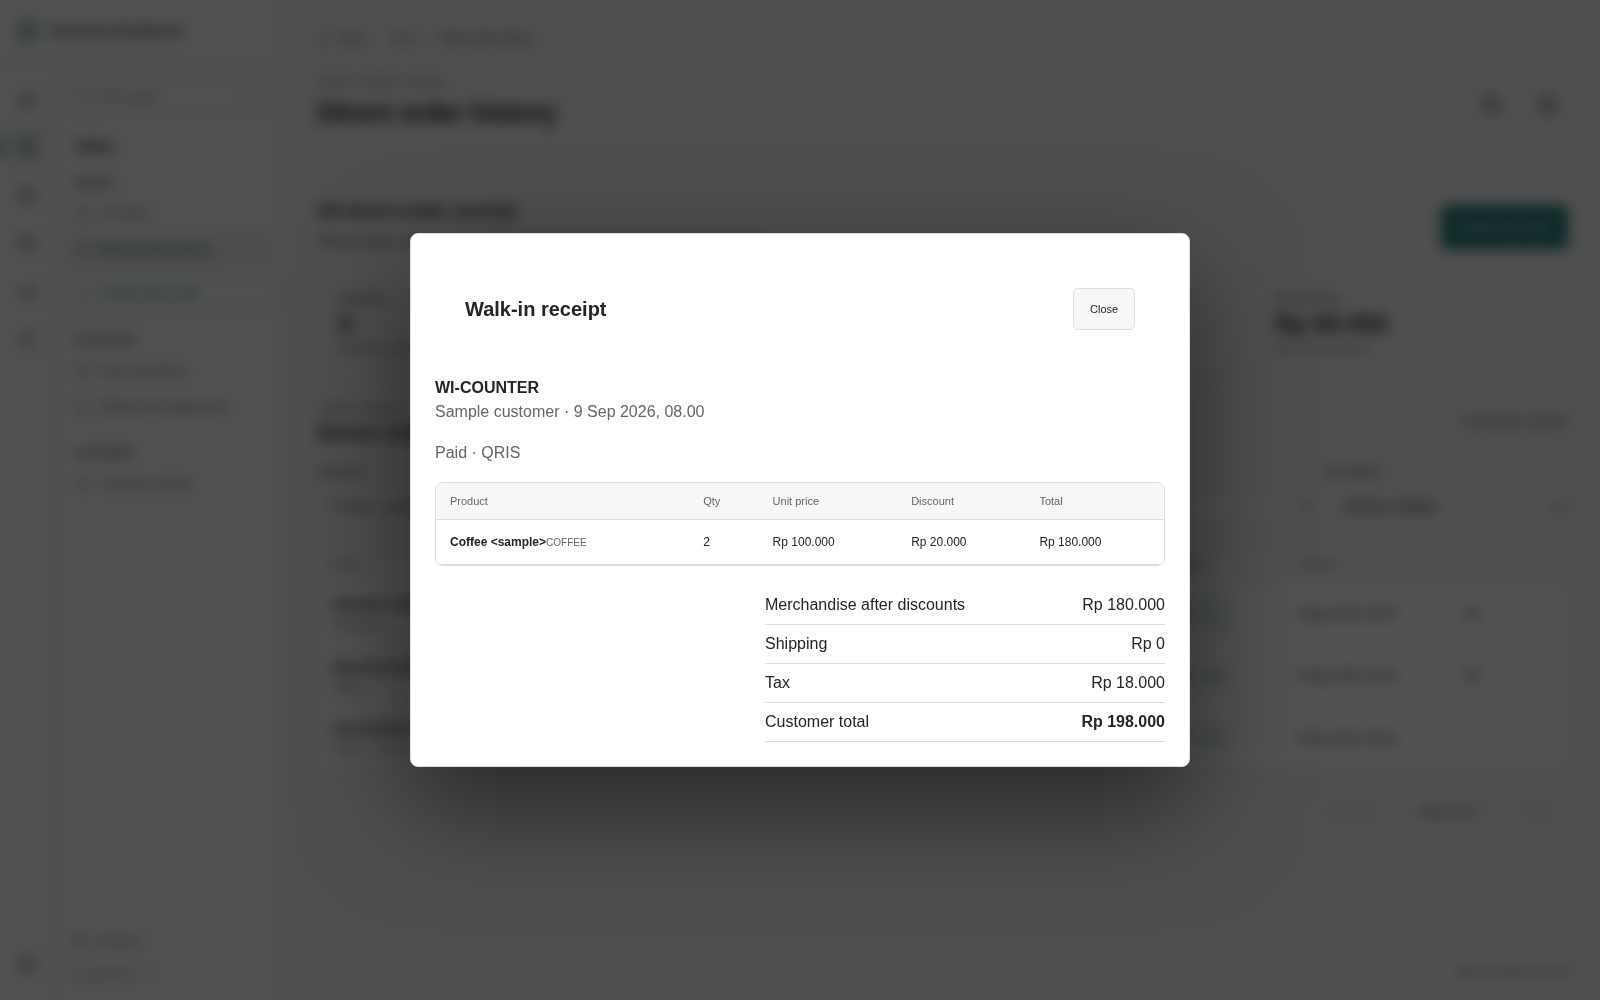
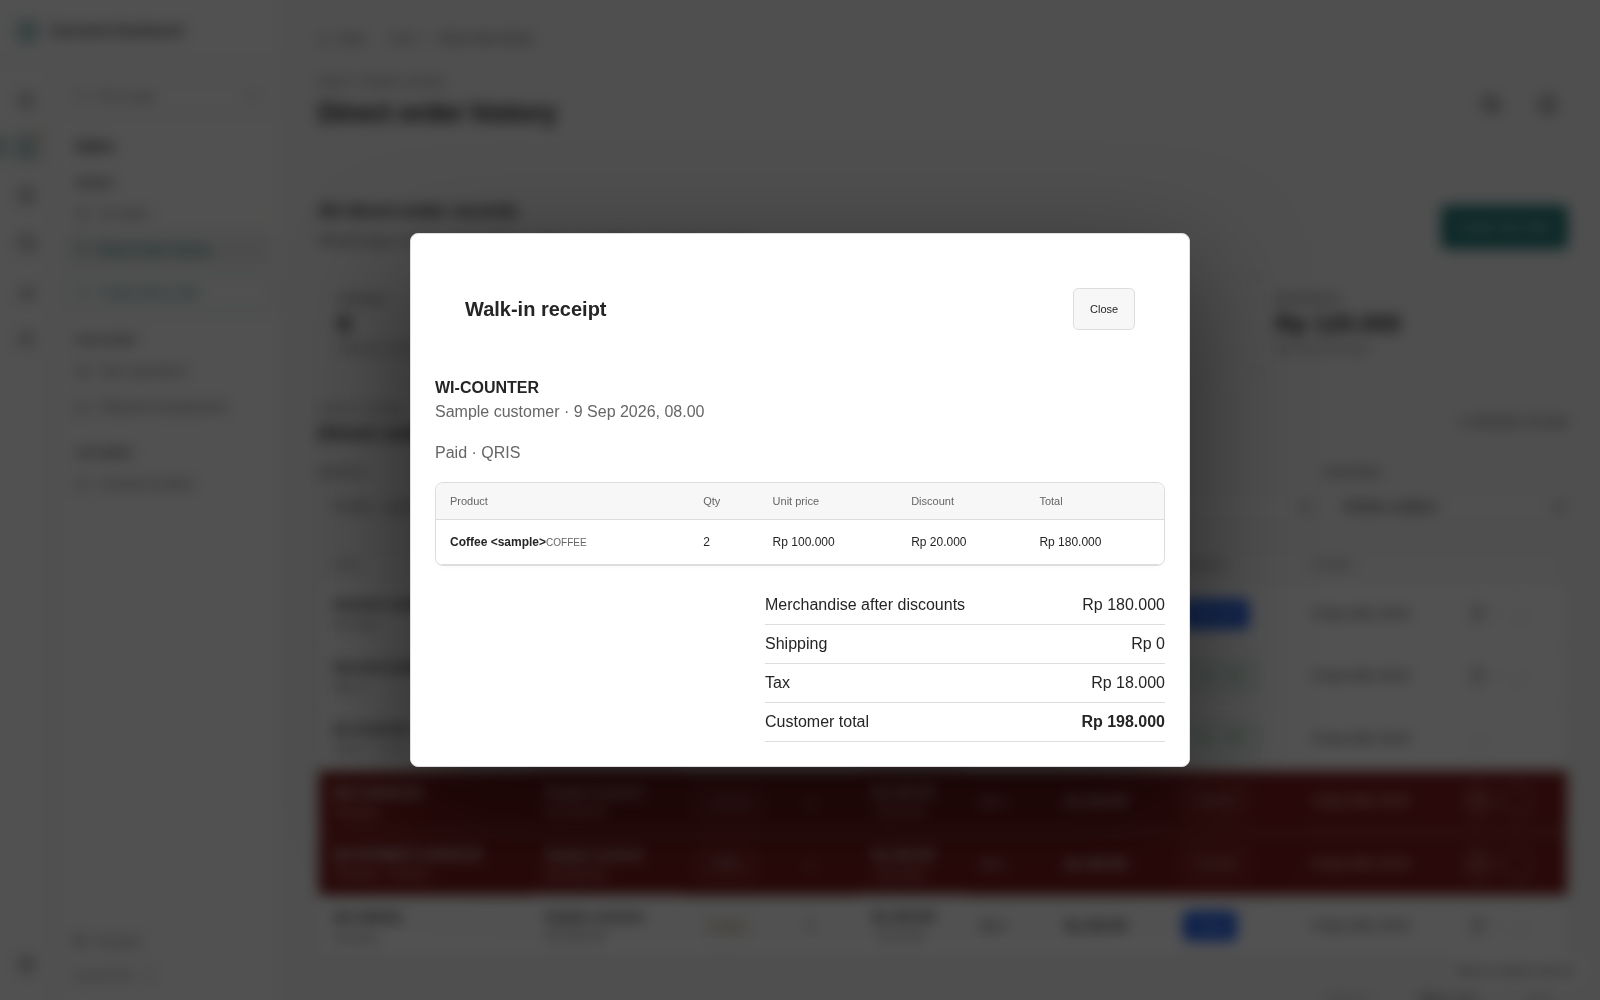
Filter direct history by payment state and distinguish payment colors

Changed region(s): [[0.1875, 0.744, 1.0, 0.961], [0.7188, 0.589, 0.7812, 0.651]]

diff --git a/whatsapp-order-history.css b/whatsapp-order-history.css
@@ -339,9 +339,13 @@
 }
 
 .whatsapp-history-payment-status.is-paid {
-  border-color: color-mix(in srgb, #16a34a 36%, var(--admin-border));
-  color: #16a34a;
-  background: color-mix(in srgb, #16a34a 8%, var(--admin-surface));
+  border-color: currentColor;
+  color: var(--history-paid-color, #4ade80);
+  background: transparent;
+}
+
+:root[data-admin-theme='light'] {
+  --history-paid-color: #15803d;
 }
 
 .whatsapp-history-payment-status.is-canceled {
@@ -350,18 +354,22 @@
   background: color-mix(in srgb, #dc2626 7%, var(--admin-surface));
 }
 
+.whatsapp-history-payment-status.is-unpaid,
 .whatsapp-history-pay-btn {
-  border-color: color-mix(in srgb, #dc2626 45%, var(--admin-border));
-  color: #dc2626;
-  background: color-mix(in srgb, #dc2626 7%, var(--admin-surface));
+  border-color: #2563eb;
+  color: #fff;
+  background: #2563eb;
+}
+
+.whatsapp-history-pay-btn {
   cursor: pointer;
   transition: border-color .16s ease, background .16s ease, transform .16s ease;
 }
 
 .whatsapp-history-pay-btn:hover,
 .whatsapp-history-pay-btn:focus-visible {
-  border-color: #dc2626;
-  background: color-mix(in srgb, #dc2626 12%, var(--admin-surface));
+  border-color: #1d4ed8;
+  background: #1d4ed8;
   transform: translateY(-1px);
 }
 
@@ -860,8 +868,28 @@ body:has(#admin-rail-nav.ed-nav) .whatsapp-history-invoice-dialog{width:min(780p
 @media(max-width:600px){body:has(#admin-rail-nav.ed-nav) .whatsapp-history-hero{align-items:flex-start;flex-direction:column}body:has(#admin-rail-nav.ed-nav) .whatsapp-history-metrics{grid-template-columns:repeat(2,minmax(0,1fr))}body:has(#admin-rail-nav.ed-nav) .whatsapp-history-metrics article{padding:16px 8px}body:has(#admin-rail-nav.ed-nav) .whatsapp-history-filters{grid-template-columns:1fr}}
 
 body:has(#admin-rail-nav.ed-nav) :is(.whatsapp-history-status,.whatsapp-history-payment-status,.whatsapp-history-pay-btn){background:transparent!important;border-color:var(--ui-border)!important;border-radius:5px;font-weight:500;text-transform:none;letter-spacing:0}
-body:has(#admin-rail-nav.ed-nav) :is(.whatsapp-history-status.fulfilled,.whatsapp-history-payment-status.is-paid,.whatsapp-history-pay-btn){color:var(--ui-accent)!important}
-body:has(#admin-rail-nav.ed-nav) .whatsapp-history-pay-btn{border-color:var(--ui-accent)!important;cursor:pointer}
-body:has(#admin-rail-nav.ed-nav) .whatsapp-history-pay-btn:hover{background:var(--ui-hover)!important}
-:root[data-admin-theme='light'] body:has(#admin-rail-nav.ed-nav) :is(.whatsapp-history-status.is-listed,.whatsapp-history-status.pending-publish,.whatsapp-history-payment-status.is-unpaid){color:#805400!important}
-:root[data-admin-theme='light'] body:has(#admin-rail-nav.ed-nav) :is(.whatsapp-history-status.cancelled,.whatsapp-history-status.publish-failed,.whatsapp-history-payment-status.is-canceled){color:#b42332!important}
+body:has(#admin-rail-nav.ed-nav) .whatsapp-history-status.fulfilled{color:var(--ui-accent)!important}
+body:has(#admin-rail-nav.ed-nav) .whatsapp-history-payment-status.is-paid{color:var(--history-paid-color,#4ade80)!important;border-color:currentColor!important}
+body:has(#admin-rail-nav.ed-nav) :is(.whatsapp-history-payment-status.is-unpaid,.whatsapp-history-pay-btn){color:#fff!important;background:#2563eb!important;border-color:#2563eb!important}
+body:has(#admin-rail-nav.ed-nav) .whatsapp-history-pay-btn:is(:hover,:focus-visible){background:#1d4ed8!important;border-color:#1d4ed8!important}
+:root[data-admin-theme='light'] body:has(#admin-rail-nav.ed-nav) :is(.whatsapp-history-status.is-listed,.whatsapp-history-status.pending-publish){color:#805400!important}
+:root[data-admin-theme='light'] body:has(#admin-rail-nav.ed-nav) .whatsapp-history-status.publish-failed{color:#b42332!important}
+
+/* Keep the complete canceled row red, including hover and archived records. */
+body.is-whatsapp-history-page:has(#admin-rail-nav.ed-nav) .whatsapp-history-table tbody .whatsapp-history-row.is-canceled {
+  background: #7f1d1d !important;
+}
+body.is-whatsapp-history-page:has(#admin-rail-nav.ed-nav) .whatsapp-history-table tbody .whatsapp-history-row.is-canceled:is(:hover, :focus-visible) {
+  background: #991b1b !important;
+}
+body.is-whatsapp-history-page:has(#admin-rail-nav.ed-nav) .whatsapp-history-row.is-canceled :is(td, a, strong) {
+  color: #fff !important;
+}
+body.is-whatsapp-history-page:has(#admin-rail-nav.ed-nav) .whatsapp-history-row.is-canceled :is(small, .whatsapp-history-open, .whatsapp-history-icon-btn, .whatsapp-history-archived-mark) {
+  color: #fecaca !important;
+}
+body.is-whatsapp-history-page:has(#admin-rail-nav.ed-nav) .whatsapp-history-row.is-canceled :is(.whatsapp-history-status, .whatsapp-history-payment-status) {
+  color: #fff !important;
+  border-color: #fca5a5 !important;
+  background: transparent !important;
+}

diff --git a/whatsapp-order-history.js b/whatsapp-order-history.js
@@ -30,11 +30,12 @@ document.addEventListener('DOMContentLoaded', () => {
     archiveConfirm: root.querySelector('[data-history-archive-confirm]')
   };
   const initialParams = new URLSearchParams(window.location.search);
+  const initialStatus = (initialParams.get('status') || '').toLowerCase().replace('cancelled', 'canceled');
   const state = {
     page: Math.max(1, Number(initialParams.get('page') || 1)),
     perPage: 50,
     query: initialParams.get('query') || '',
-    status: initialParams.get('status') || '',
+    status: ['paid', 'unpaid', 'canceled'].includes(initialStatus) ? initialStatus : '',
     archive: ['active', 'archived', 'all'].includes(initialParams.get('archive')) ? initialParams.get('archive') : 'active',
     channel: ['all', 'whatsapp', 'walk_in'].includes(initialParams.get('channel')) ? initialParams.get('channel') : 'all',
     orders: [],
@@ -63,7 +64,7 @@ document.addEventListener('DOMContentLoaded', () => {
   };
   const statusLabel = (status) => ({
     PENDING_PUBLISH: 'Sending', PUBLISH_FAILED: 'Needs retry', IS_LISTED: 'Listed',
-    IS_BEING_FULFILLED: 'Processing', FULFILLED: 'Fulfilled', CANCELLED: 'Cancelled'
+    IS_BEING_FULFILLED: 'Processing', FULFILLED: 'Fulfilled', CANCELLED: 'Canceled'
   }[status] || String(status || 'Unknown').replaceAll('_', ' '));
   const statusClass = (status) => String(status || 'unknown').toLowerCase().replaceAll('_', '-');
   const paymentLabel = (order) => {
@@ -123,7 +124,7 @@ document.addEventListener('DOMContentLoaded', () => {
       const archiveAction = order.can_archive === true
         ? `<button type="button" class="whatsapp-history-icon-btn is-archive" data-history-archive="${escapeHtml(order.order_id)}" aria-label="Archive ${escapeHtml(order.order_id)}" title="Archive order"><svg viewBox="0 0 24 24" aria-hidden="true"><path d="M4 7h16M5 7l1 13h12l1-13M9 11h6M8 4h8l1 3H7l1-3Z"/></svg></button>`
         : order.archived ? '<span class="whatsapp-history-archived-mark" title="Archived"><svg viewBox="0 0 24 24" aria-hidden="true"><path d="M4 7h16M5 7l1 13h12l1-13M9 11h6M8 4h8l1 3H7l1-3Z"/></svg></span>' : '';
-      return `<tr class="whatsapp-history-row${order.archived ? ' is-archived' : ''}" tabindex="0" role="link" data-order-url="${escapeHtml(url)}" ${isCounter ? `data-counter-invoice="${escapeHtml(order.order_id)}"` : ''} aria-label="Open ${escapeHtml(order.order_id)}">
+      return `<tr class="whatsapp-history-row${paymentStatus === 'canceled' || order.status === 'CANCELLED' ? ' is-canceled' : ''}${order.archived ? ' is-archived' : ''}" tabindex="0" role="link" data-order-url="${escapeHtml(url)}" ${isCounter ? `data-counter-invoice="${escapeHtml(order.order_id)}"` : ''} aria-label="Open ${escapeHtml(order.order_id)}">
         <td><a href="${escapeHtml(url)}"><strong>${escapeHtml(order.order_id)}</strong><small>${escapeHtml(`${channelLabel}${order.archived ? ` · Archived ${formatDate(order.archived_at)}` : order.label_original_name ? ` · ${order.label_original_name}` : ''}`)}</small></a></td>
         <td><strong>${escapeHtml(order.customer?.name || (order.sales_channel === 'walk_in' ? 'Walk-in customer' : 'Customer'))}</strong><small>${escapeHtml(contact)}</small></td>
         <td><span class="whatsapp-history-status ${escapeHtml(statusClass(order.status))}">${escapeHtml(statusLabel(order.status))}</span></td>
@@ -275,6 +276,7 @@ document.addEventListener('DOMContentLoaded', () => {
       state.paymentOrderId = '';
       refs.paymentDialog?.close?.();
       window.refreshDirectOrderUnpaidIndicator?.();
+      if (state.status) await loadHistory();
     } catch (error) {
       if (refs.paymentError) {
         refs.paymentError.textContent = error instanceof Error ? error.message : 'Payment could not be confirmed.';

diff --git a/tests/whatsapp-order-history-ui-test.js b/tests/whatsapp-order-history-ui-test.js
@@ -18,7 +18,7 @@ const dashboardScript = fs.readFileSync(path.join(root, 'admin.js'), 'utf8');
 
 assert.match(historyPage, /All direct-order records[\s\S]*?data-history-summary="orders"[\s\S]*?data-history-body/, 'History page must expose a complete ledger and summary.');
 assert.match(historyPage, /data-history-search[\s\S]*?data-history-status-filter[\s\S]*?data-history-previous[\s\S]*?data-history-next/, 'History ledger must support search, status filters, and pagination.');
-assert.match(historyPage, /value="IS_LISTED"[\s\S]*?value="IS_BEING_FULFILLED">Processing[\s\S]*?value="FULFILLED">Fulfilled[\s\S]*?value="CANCELLED">Cancelled/, 'History status filters must expose the full Listed, Processing, Fulfilled, and Cancelled lifecycle.');
+assert.match(historyPage, /value="paid">Paid[\s\S]*?value="unpaid">Unpaid[\s\S]*?value="canceled">Canceled/, 'History status filter must expose payment states.');
 assert.match(historyPage, /<th>Payment<\/th>[\s\S]*?data-history-payment-dialog[\s\S]*?name="payment_method" value="cash"[\s\S]*?name="payment_method" value="bank"/, 'History must expose payment status and a Cash or Bank confirmation dialog.');
 assert.match(historyPage, /name="payment_method" value="bank" checked/, 'Bank must be the default when a Pay Later order is marked paid.');
 assert.match(dashboardPage, /data-order-payment-form[\s\S]*?name="payment_method" value="bank" checked/, 'The central Orders payment dialog must also default to Bank.');

diff --git a/tests/direct-order-history-test.php b/tests/direct-order-history-test.php
@@ -30,6 +30,10 @@ $pdo->exec("UPDATE whatsapp_orders SET archived_at = '2026-09-09' WHERE id = 2")
 $pdo->exec("UPDATE whatsapp_orders SET status = 'IS_LISTED', payment_status = 'unpaid', pay_later = 1 WHERE id = 3");
 $sku->exec("UPDATE store_ops_walkin_invoices SET analytics_visible = 0 WHERE invoice_number = 'C1'");
 $sku->exec("INSERT INTO store_ops_walkin_invoices (invoice_number, invoice_type, created_at) VALUES ('COPY', 'whatsapp', '2026-09-16')");
+$pdo->exec("UPDATE whatsapp_orders SET status = 'CANCELLED' WHERE id = 4");
+$pdo->exec("UPDATE whatsapp_orders SET payment_status = 'canceled' WHERE id = 5");
+$pdo->exec("UPDATE whatsapp_orders SET payment_status = '' WHERE id = 6");
+$pdo->exec("UPDATE whatsapp_orders SET payment_status = ' PAID ' WHERE id = 7");
 $before = [$pdo->query('SELECT total_changes()')->fetchColumn(), $sku->query('SELECT total_changes()')->fetchColumn()];
 $history = fn($page=1, $query='', $status='', $archive='active', $channel='all') => jg_direct_order_history($pdo, $sku, $page, 10, $query, $status, $archive, $channel);
 $all = $history();
@@ -46,7 +50,21 @@ history_expect(16, $history(channel:'walk_in')['summary']['orders'], 'Walk-ins i
 history_expect(1, $history(archive:'archived')['summary']['orders'], 'Counter receipts are not falsely archived');
 history_expect(30, $history(archive:'all')['summary']['orders'], 'All records includes archived dashboard records');
 history_expect(1, $history(status:'IS_LISTED')['summary']['orders'], 'Unfulfilled filter excludes completed counter receipts');
-history_expect(28, $history(status:'FULFILLED')['summary']['orders'], 'Fulfilled includes counter sales');
+history_expect(27, $history(status:'FULFILLED')['summary']['orders'], 'Fulfilled includes counter sales');
+history_expect(25, $history(status:'paid')['summary']['orders'], 'Paid combines counter and dashboard sales but excludes cancellations');
+history_expect(2, $history(status:'unpaid')['summary']['orders'], 'Unpaid includes pay-later and empty legacy payment states');
+history_expect(2, $history(status:'canceled')['summary']['orders'], 'Canceled includes lifecycle cancellations even when the stored payment is paid');
+history_expect(40, $history(status:'paid')['summary']['item_count'], 'Paid units count dashboard and counter items');
+history_expect(1, $history(status:'paid', archive:'archived')['summary']['orders'], 'Payment and archive filters combine');
+history_expect(16, $history(status:'paid', channel:'walk_in')['summary']['orders'], 'Paid walk-ins include dashboard and counter sales');
+history_expect(0, $history(status:'unpaid', channel:'walk_in')['summary']['orders'], 'Paid counter invoices never appear in Unpaid');
+history_expect(15, $history(status:'paid', query:'COFFEE')['summary']['orders'], 'Payment and item search combine');
+$paidKeys = [];
+for ($page = 1; $page <= 3; $page++) foreach ($history($page, status:'paid')['orders'] as $order) {
+    history_expect('paid', $order['payment_status'], 'Paid filter matches the displayed payment state');
+    $paidKeys[] = $order['source'] . ':' . $order['order_id'];
+}
+history_expect(25, count(array_unique($paidKeys)), 'Payment filtering paginates all matching records without duplication');
 history_expect(15, $history(query:'COFFEE')['summary']['orders'], 'SKU search includes invoice items');
 history_expect(14, $history(query:'Tea')['summary']['orders'], 'Product search includes dashboard items');
 history_expect(1, $history(query:'C15')['summary']['orders'], 'Invoice number search');

diff --git a/whatsapp-order-history/index.php b/whatsapp-order-history/index.php
@@ -29,7 +29,7 @@ $historyJsVersion = (string) @filemtime(dirname(__DIR__) . '/whatsapp-order-hist
     <link rel="stylesheet" href="../whatsapp-order-history.css?v=<?php echo urlencode($historyCssVersion ?: '1'); ?>">
 </head>
 <body class="admin-body is-dashboard is-whatsapp-history-page">
-    <div class="admin-build-badge" aria-label="Dashboard build version">Build exec3.98.19</div>
+    <div class="admin-build-badge" aria-label="Dashboard build version">Build exec3.98.20</div>
     <div class="admin-app admin-app-suite" data-whatsapp-order-history data-endpoint="../api/whatsapp-orders/">
         <div class="admin-backdrop admin-backdrop-a"></div>
         <div class="admin-backdrop admin-backdrop-b"></div>
@@ -90,12 +90,9 @@ $historyJsVersion = (string) @filemtime(dirname(__DIR__) . '/whatsapp-order-hist
                                 <span>Status</span>
                                 <select data-history-status-filter>
                                     <option value="">All statuses</option>
-                                    <option value="PENDING_PUBLISH">Sending</option>
-                                    <option value="PUBLISH_FAILED">Needs retry</option>
-                                    <option value="IS_LISTED">Listed</option>
-                                    <option value="IS_BEING_FULFILLED">Processing</option>
-                                    <option value="FULFILLED">Fulfilled</option>
-                                    <option value="CANCELLED">Cancelled</option>
+                                    <option value="paid">Paid</option>
+                                    <option value="unpaid">Unpaid</option>
+                                    <option value="canceled">Canceled</option>
                                 </select>
                             </label>
                             <label>
@@ -115,7 +112,7 @@ $historyJsVersion = (string) @filemtime(dirname(__DIR__) . '/whatsapp-order-hist
                                     <tr>
                                         <th>Order</th>
                                         <th>Customer</th>
-                                        <th>Status</th>
+                                        <th>Fulfillment</th>
                                         <th>Items</th>
                                         <th>Merchandise</th>
                                         <th>Shipping</th>

diff --git a/whatsapp-orders-bootstrap.php b/whatsapp-orders-bootstrap.php
@@ -186,6 +186,15 @@ function jg_whatsapp_payment_status(array $row): string
     return in_array($status, ['paid', 'unpaid', 'canceled'], true) ? $status : 'unpaid';
 }
 
+/** Match the displayed payment state, including cancellation and legacy empty values. */
+function jg_whatsapp_history_status_sql(string $status): string
+{
+    if (!in_array($status, ['PAID', 'UNPAID', 'CANCELED'], true)) return 'o.status = :status';
+    return "(CASE WHEN UPPER(TRIM(o.status)) = 'CANCELLED' THEN 'canceled'
+        WHEN LOWER(TRIM(o.payment_status)) IN ('paid', 'canceled') THEN LOWER(TRIM(o.payment_status))
+        ELSE 'unpaid' END) = LOWER(:status)";
+}
+
 /** @return array{hide_charts:bool,hide_financials:bool,restore_stock:bool} */
 function jg_whatsapp_archive_options(array $payload): array
 {
@@ -1200,7 +1209,7 @@ function jg_whatsapp_order_history(PDO $pdo, int $page = 1, int $perPage = 50, s
     if ($includeWalkIns) {
         $skuPdo = null;
         $warnings = [];
-        if ($channel !== 'whatsapp' && $archive !== 'archived' && in_array(strtoupper($status), ['', 'FULFILLED'], true)) {
+        if ($channel !== 'whatsapp' && $archive !== 'archived' && in_array(strtoupper(trim($status)), ['', 'FULFILLED', 'PAID'], true)) {
             try {
                 $config = jg_sku_db_config();
                 $skuPdo = new PDO(
@@ -1222,7 +1231,7 @@ function jg_whatsapp_order_history(PDO $pdo, int $page = 1, int $perPage = 50, s
     $query = trim($query);
     $status = strtoupper(trim($status));
     $archive = strtolower(trim($archive));
-    $allowedStatuses = ['', 'PENDING_PUBLISH', 'PUBLISH_FAILED', 'IS_LISTED', 'IS_BEING_FULFILLED', 'FULFILLED', 'CANCELLED'];
+    $allowedStatuses = ['', 'PAID', 'UNPAID', 'CANCELED', 'PENDING_PUBLISH', 'PUBLISH_FAILED', 'IS_LISTED', 'IS_BEING_FULFILLED', 'FULFILLED', 'CANCELLED'];
     if (!in_array($status, $allowedStatuses, true)) {
         throw new InvalidArgumentException('Choose a valid WhatsApp order status.');
     }
@@ -1253,7 +1262,7 @@ function jg_whatsapp_order_history(PDO $pdo, int $page = 1, int $perPage = 50, s
         ];
     }
     if ($status !== '') {
-        $where[] = 'o.status = :status';
+        $where[] = jg_whatsapp_history_status_sql($status);
         $params[':status'] = $status;
     }
     $whereSql = $where ? ' WHERE ' . implode(' AND ', $where) : '';

diff --git a/direct-order-history.php b/direct-order-history.php
@@ -8,7 +8,7 @@ function jg_direct_order_history(PDO $pdo, ?PDO $skuPdo, int $page, int $perPage
     $perPage = max(10, min(100, $perPage));
     $query = mb_substr(trim($query), 0, 160);
     $status = strtoupper(trim($status));
-    if (!in_array($status, ['', 'PENDING_PUBLISH', 'PUBLISH_FAILED', 'IS_LISTED', 'IS_BEING_FULFILLED', 'FULFILLED', 'CANCELLED'], true)
+    if (!in_array($status, ['', 'PAID', 'UNPAID', 'CANCELED', 'PENDING_PUBLISH', 'PUBLISH_FAILED', 'IS_LISTED', 'IS_BEING_FULFILLED', 'FULFILLED', 'CANCELLED'], true)
         || !in_array($archive, ['active', 'archived', 'all'], true)
         || !in_array($channel, ['all', 'whatsapp', 'walk_in'], true)) {
         throw new InvalidArgumentException('Choose valid history filters.');
@@ -27,12 +27,12 @@ function jg_direct_order_history(PDO $pdo, ?PDO $skuPdo, int $page, int $perPage
         $sources['dashboard']['params'][':channel'] = $channel;
     }
     if ($status !== '') {
-        $sources['dashboard']['where'][] = 'o.status = :status';
+        $sources['dashboard']['where'][] = jg_whatsapp_history_status_sql($status);
         $sources['dashboard']['params'][':status'] = $status;
     }
     // Counter invoices are completed sales, not dashboard drafts or archived orders.
     // WhatsApp copies printed in Store Ops must not be counted a second time.
-    if ($skuPdo && $channel !== 'whatsapp' && $archive !== 'archived' && in_array($status, ['', 'FULFILLED'], true)) {
+    if ($skuPdo && $channel !== 'whatsapp' && $archive !== 'archived' && in_array($status, ['', 'FULFILLED', 'PAID'], true)) {
         $sources['counter'] = [
             'pdo' => $skuPdo, 'table' => 'store_ops_walkin_invoices', 'key' => 'invoice_number', 'number' => 'invoice_number',
             'items' => 'store_ops_walkin_invoice_items', 'foreign' => 'invoice_number',

diff --git a/dashboard/index.php b/dashboard/index.php
@@ -58,7 +58,7 @@ $sidebarSection = match (true) {
     in_array($requestedView ?? '', ['website', 'site', 'home', 'campaign', 'campaigns', 'landing', 'landing-pages'], true) => 'website',
     default => 'home',
 };
-$dashboardBuildVersion = 'exec3.98.19';
+$dashboardBuildVersion = 'exec3.98.20';
 $adminCssVersion = $dashboardBuildVersion . '-' . (string) @filemtime(dirname(__DIR__) . '/admin.css');
 $adminJsVersion = $dashboardBuildVersion . '-' . (string) @filemtime(dirname(__DIR__) . '/admin.js');
 $storeOpsJsVersion = $dashboardBuildVersion . '-' . (string) @filemtime(dirname(__DIR__) . '/store-ops.js');

diff --git a/verification/direct-history-payment-review.md b/verification/direct-history-payment-review.md
@@ -1,0 +1,14 @@
+# Direct history payment filters and colors — exec3.98.20
+
+The Status dropdown now offers All statuses, Paid, Unpaid, and Canceled. Payment filtering runs before totals and pagination across dashboard orders and counter invoices. Canceled lifecycle records take precedence over stored payment values; legacy empty payment values count as unpaid. Existing fulfillment-status API callers remain supported, and the ledger's fulfillment column is labeled explicitly.
+
+Paid badges use a green outline with no fill. Unpaid badges and Mark paid buttons use solid blue with white text. Canceled rows have a red background across their full width, retain red on hover and keyboard focus, and use contrasting text in both themes. Confirming a payment refreshes an active payment filter so paid orders leave the Unpaid view.
+
+Validation passed:
+
+- PHP history integration checks with isolated SQLite databases: payment/channel/archive/search combinations, canceled records, normalized legacy values, aggregate units, mixed-source pagination, and unchanged database write counts.
+- Existing direct-order payment, archive, and WhatsApp order PHP suites.
+- Existing WhatsApp history and order JavaScript checks, plus syntax checks for changed PHP and JavaScript.
+- Browser checks using the native PHP template and fixture API responses: persisted payment filters, payment confirmation and removal from Unpaid, counter receipt and archive interactions, actual badge and row colors, hover/focus colors, text contrast, and desktop/light/dark/mobile layouts.
+
+Updated screenshots in `verification/ui/direct-history-*.png` use illustrative test records. Production order records were not changed during verification.

diff --git a/VERSIONING.md b/VERSIONING.md
@@ -1,6 +1,6 @@
 # Jenang Gemi Dashboard Versioning
 
-Current dashboard version: `exec3.98.19`
+Current dashboard version: `exec3.98.20`
 
 Versioning rule for future changes:
 - Default behavior: increment the patch digit by `+1`.
